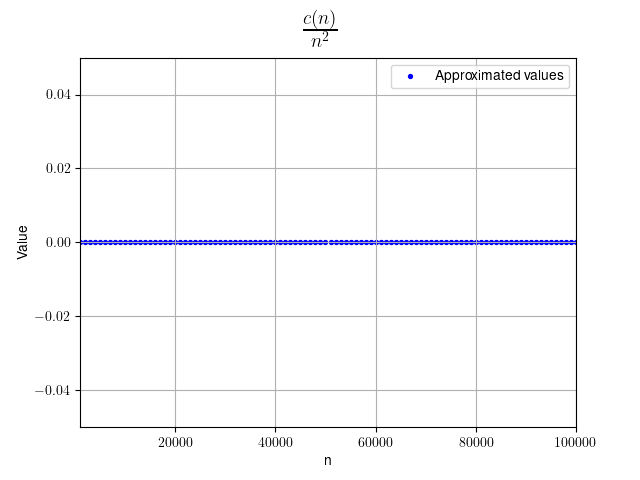
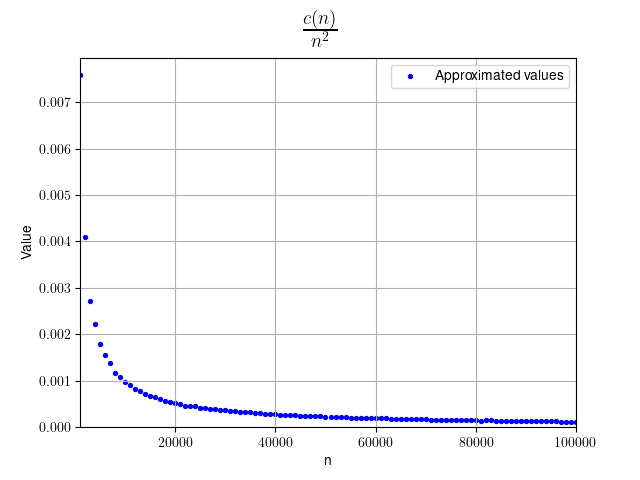
mpis hw2 fixed

diff --git a/3rdSemester/mpis/hw2/main.py b/3rdSemester/mpis/hw2/main.py
@@ -79,10 +79,10 @@ if __name__ == "__main__":
     u1 = [ (avgU[ i // 1000 - 1] / i) for i in avgN ]
     c1 = [ (avgC[ i // 1000 - 1] / i) for i in avgN ]
     c2 = [ (avgC[ i // 1000 - 1] / ( i * np.log(i) )) for i in avgN ]
-    c3 = [ (avgC[ i // 1000 - 1] / (i**i)) for i in avgN ]
+    c3 = [ (avgC[ i // 1000 - 1] / (i*i)) for i in avgN ]
     d1 = [ (avgD[ i // 1000 - 1] / i) for i in avgN ]
     d2 = [ (avgD[ i // 1000 - 1] / ( i * np.log(i) )) for i in avgN ]
-    d3 = [ (avgD[ i // 1000 - 1] / (i**i)) for i in avgN ]
+    d3 = [ (avgD[ i // 1000 - 1] / (i*i)) for i in avgN ]
     dc1 = [ (avgDC[ i // 1000 - 1] / i) for i in avgN ]
     dc2 = [ (avgDC[ i // 1000 - 1] / ( i * np.log(i) )) for i in avgN ]
     dc3 = [ (avgDC[ i // 1000 - 1] / ( i * np.log(np.log(i)) )) for i in avgN ]
